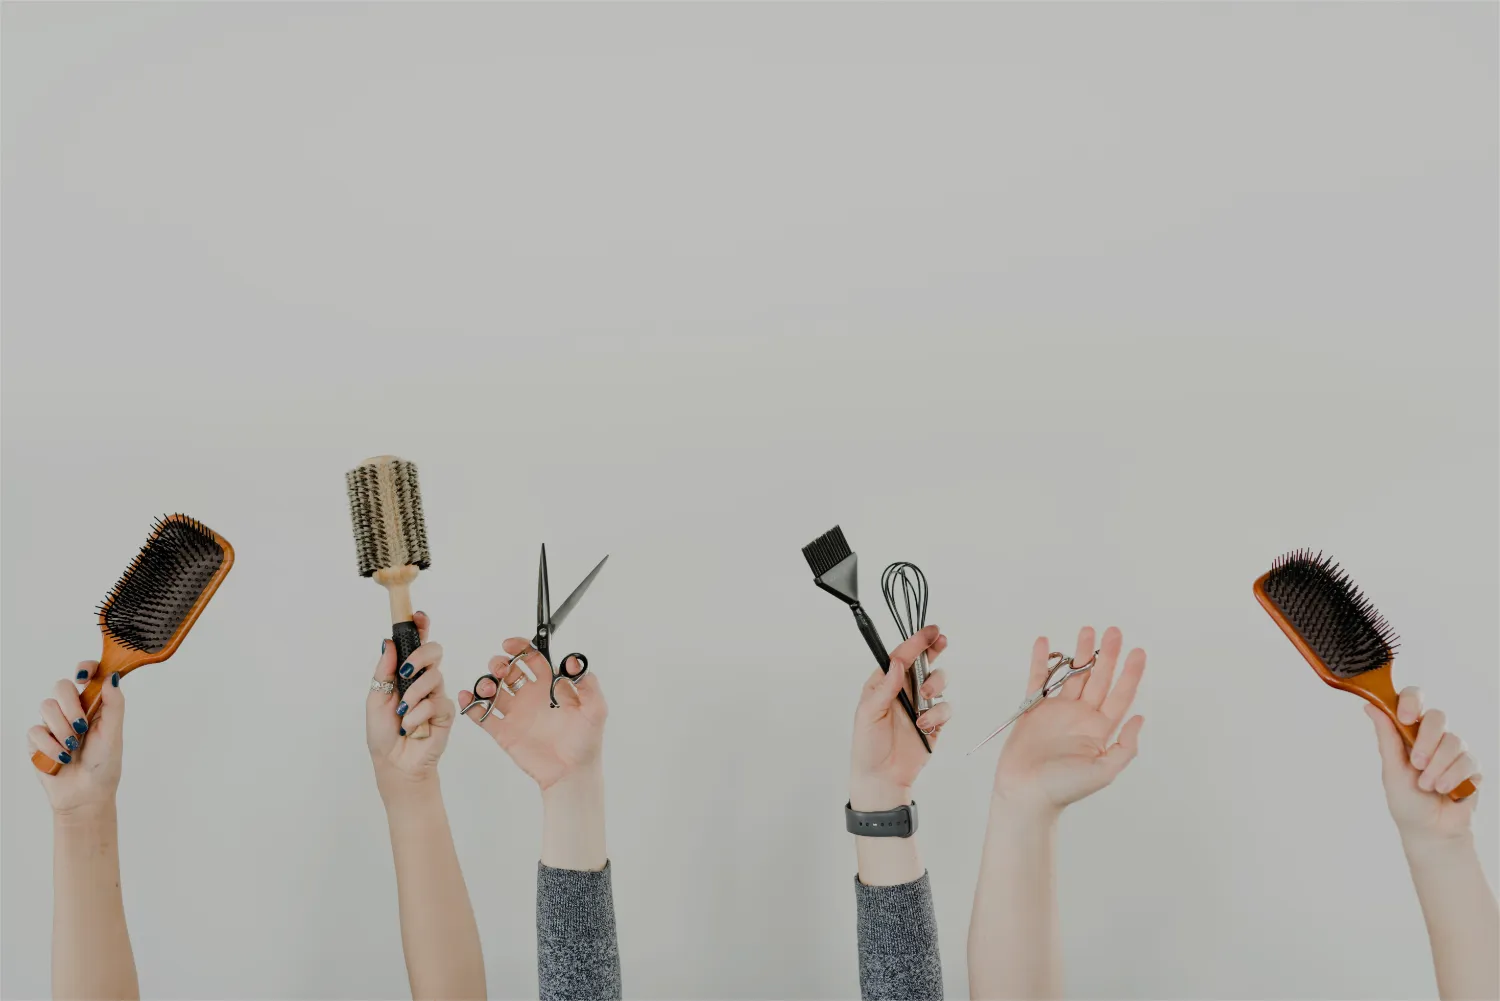
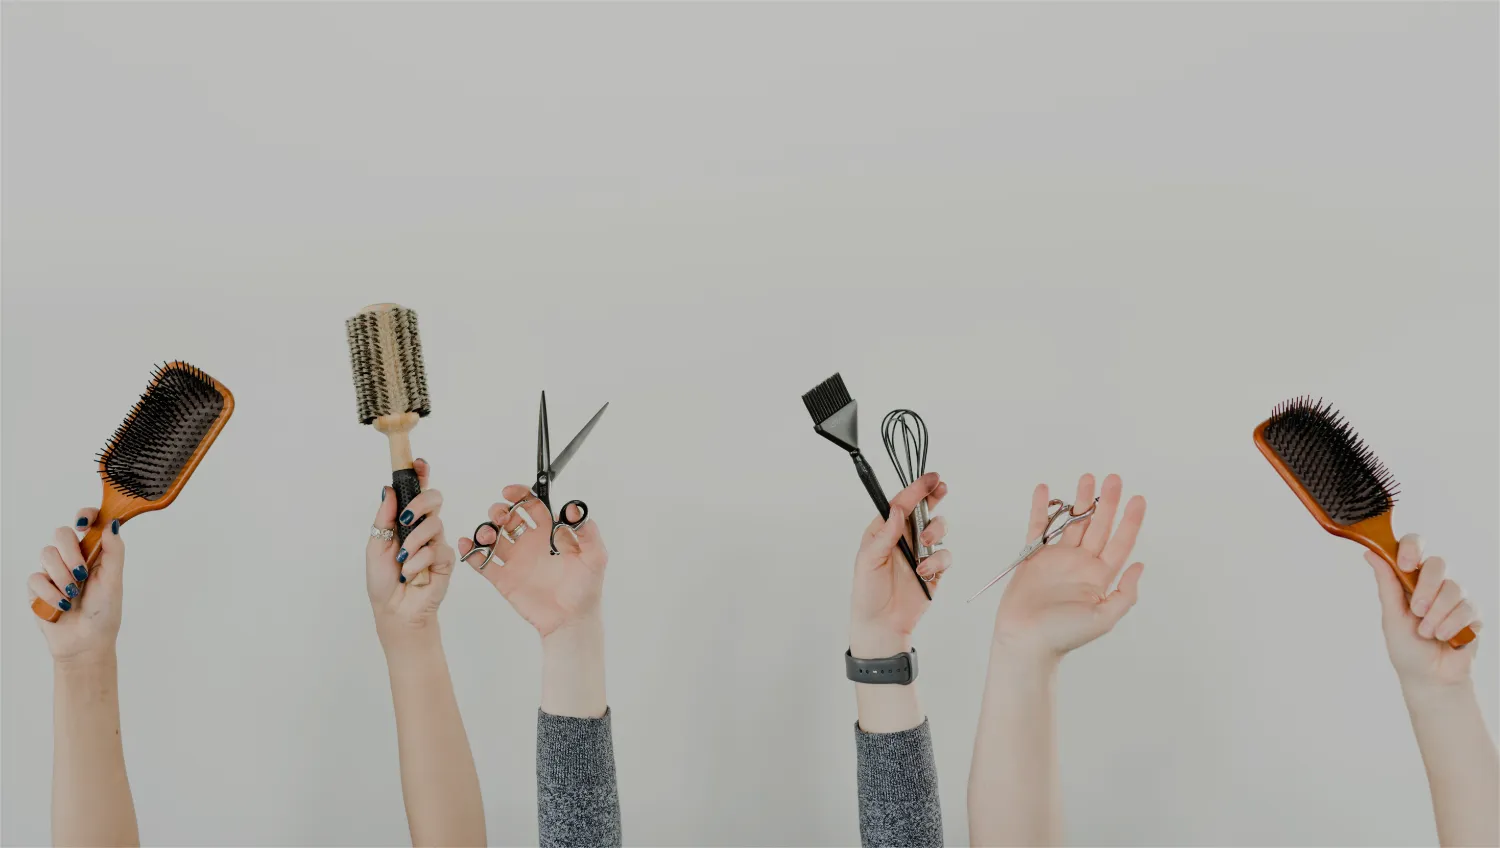
Created gallery page, updated gallery structure and styles from the home page. Optimized all gallery related images.

diff --git a/gallery.html b/gallery.html
@@ -8,11 +8,22 @@
         <title>Best Hairdresser and Hair Salon in Tucson | Mon Chéri</title>
         <link rel="stylesheet" href="styles/main.css">
 
+        <!--Google Fonts: Mukta-->
+        <link rel="preconnect" href="https://fonts.googleapis.com"><link rel="preconnect" href="https://fonts.gstatic.com" crossorigin>
+        <link href="https://fonts.googleapis.com/css2?family=Mukta:wght@300;400;500;600&display=swap" rel="stylesheet">
+
+        <!--Google Fonts: Merriweather-->
+        <link rel="preconnect" href="https://fonts.googleapis.com"><link rel="preconnect" href="https://fonts.gstatic.com" crossorigin>
+        <link href="https://fonts.googleapis.com/css2?family=Merriweather&display=swap" rel="stylesheet">
+
         <!--Load header from web component-->
         <script src="components/header/header.js"></script>
 
         <!--Load footer from web component-->
         <script src="components/footer/footer.js"></script>
+
+        <!--Load slideshow from web component-->
+        <script src="/components/photo-slider/photo-slider.js"></script>
 
         <!--  Favicon code  -->
         <link rel="apple-touch-icon" sizes="180x180" href="/assets/favicon/apple-touch-icon.png">
@@ -30,31 +41,96 @@
 
         <header-component></header-component>
 
-        <section>
-            <h4>The Results Speak for Themselves</h4>
-            <h1>Previous Work</h1>
-
-            <div class="gallery-container">
-                <img class="gallery-img-frame show-off-img-start" src="assets/photos/past-work/home-gallery-08.jpg" alt="">
-                <img class="gallery-img-frame" src="assets/photos/past-work/home-gallery-01.jpg" alt="">
-                <img class="gallery-img-frame" src="assets/photos/past-work/home-gallery-02.jpg" alt="">
-                <img class="gallery-img-frame" src="assets/photos/past-work/home-gallery-03.jpg" alt="">
-                <img class="gallery-img-frame" src="assets/photos/past-work/home-gallery-04.jpg" alt="">
-                <img class="gallery-img-frame" src="assets/photos/past-work/home-gallery-05.jpg" alt="">
-                <img class="gallery-img-frame" src="assets/photos/past-work/home-gallery-06.jpg" alt="">
-                <img class="gallery-img-frame" src="assets/photos/past-work/home-gallery-07.jpg" alt="">
-
-                <img class="gallery-img-frame" src="assets/photos/past-work/home-gallery-09.jpg" alt="">
-                <img class="gallery-img-frame show-off-img-end" src="assets/photos/past-work/home-gallery-10.jpg" alt="">
+        <section class="hero-section" id="hero-gallery">
+            <div class="hero-headers-container">
+                <h1>Your One-Stop Place For All Things Beauty</h1>
             </div>
-
-            <span class="btn-primary">
-                    <a href="services.html">See The Full Gallery</a>
-                </span>
         </section>
 
+        <section>
+
+            <div class="gallery-container gallery-left-large">
+                <img class="gallery-img-frame" src="assets/photos/past-work-optimized/service-image-00007.webp" alt="">
+                <img class="gallery-img-frame" src="assets/photos/past-work-optimized/service-image-00032.webp" alt="">
+                <img class="gallery-img-frame" src="assets/photos/past-work-optimized/service-image-00033.webp" alt="">
+                <img class="gallery-img-frame" src="assets/photos/past-work-optimized/service-image-00034.webp" alt="">
+                <img class="gallery-img-frame" src="assets/photos/past-work-optimized/service-image-00035.webp" alt="">
+                <img class="gallery-img-frame" src="assets/photos/past-work-optimized/service-image-00036.webp" alt="">
+                <img class="gallery-img-frame" src="assets/photos/past-work-optimized/service-image-00037.webp" alt="">
+                <img class="gallery-img-frame" src="assets/photos/past-work-optimized/service-image-00038.webp" alt="">
+                <img class="gallery-img-frame" src="assets/photos/past-work-optimized/service-image-00039.webp" alt="">
+                <img class="gallery-img-frame" src="assets/photos/past-work-optimized/service-image-00040.webp" alt="">
+                <img class="gallery-img-frame" src="assets/photos/past-work-optimized/service-image-00041.webp" alt="">
+                <img class="gallery-img-frame" src="assets/photos/past-work-optimized/service-image-00042.webp" alt="">
+                <img class="gallery-img-frame" src="assets/photos/past-work-optimized/service-image-00043.webp" alt="">
+            </div>
+
+
+        </section>
+
+        <section>
+
+            <div class="gallery-container gallery-right-large">
+                <img class="gallery-img-frame" src="assets/photos/past-work-optimized/service-image-00044.webp" alt="">
+                <img class="gallery-img-frame" src="assets/photos/past-work-optimized/service-image-00045.webp" alt="">
+                <img class="gallery-img-frame" src="assets/photos/past-work-optimized/service-image-00046.webp" alt="">
+                <img class="gallery-img-frame" src="assets/photos/past-work-optimized/service-image-00047.webp" alt="">
+                <img class="gallery-img-frame" src="assets/photos/past-work-optimized/service-image-00048.webp" alt="">
+                <img class="gallery-img-frame" src="assets/photos/past-work-optimized/service-image-00049.webp" alt="">
+                <img class="gallery-img-frame" src="assets/photos/past-work-optimized/service-image-00050.webp" alt="">
+                <img class="gallery-img-frame" src="assets/photos/past-work-optimized/service-image-00051.webp" alt="">
+                <img class="gallery-img-frame" src="assets/photos/past-work-optimized/service-image-00052.webp" alt="">
+                <img class="gallery-img-frame" src="assets/photos/past-work-optimized/service-image-00053.webp" alt="">
+                <img class="gallery-img-frame" src="assets/photos/past-work-optimized/service-image-00054.webp" alt="">
+                <img class="gallery-img-frame" src="assets/photos/past-work-optimized/service-image-00055.webp" alt="">
+                <img class="gallery-img-frame" src="assets/photos/past-work-optimized/service-image-00056.webp" alt="">
+            </div>
+        </section>
+
+        <section>
+
+            <div class="gallery-container gallery-left-large">
+                <img class="gallery-img-frame" src="assets/photos/past-work-optimized/service-image-00058.webp" alt="">
+                <img class="gallery-img-frame" src="assets/photos/past-work-optimized/service-image-00057.webp" alt="">
+                <img class="gallery-img-frame" src="assets/photos/past-work-optimized/service-image-00059.webp" alt="">
+                <img class="gallery-img-frame" src="assets/photos/past-work-optimized/service-image-00060.webp" alt="">
+                <img class="gallery-img-frame" src="assets/photos/past-work-optimized/service-image-00061.webp" alt="">
+                <img class="gallery-img-frame" src="assets/photos/past-work-optimized/service-image-00062.webp" alt="">
+                <img class="gallery-img-frame" src="assets/photos/past-work-optimized/service-image-00063.webp" alt="">
+
+            </div>
+        </section>
+
+        <section>
+            <h4>Get In Touch</h4>
+            <h1>Conveniently Located Inside El Rio Barber Stylist</h1>
+
+            <div class="contact-us-container">
+                <div class="map-embed">
+                    <div class="iframe-container">
+                        <iframe src="https://www.google.com/maps/embed?pb=!1m18!1m12!1m3!1d1542.0203396831364!2d-110.9925340596437!3d32.2353053084472!2m3!1f0!2f0!3f0!3m2!1i1024!2i768!4f13.1!3m3!1m2!1s0x86d671315145d619%3A0x7f3869fa6ad62b42!2s1299%20W%20Speedway%20Blvd%2C%20Tucson%2C%20AZ%2085745!5e0!3m2!1sen!2sus!4v1670911112876!5m2!1sen!2sus" width="600" height="450" style="border:0;" allowfullscreen="" loading="lazy" referrerpolicy="no-referrer-when-downgrade"></iframe>
+                    </div>
+                </div>
+
+                <div class="contact-us-btn-group">
+                <span class="btn-primary-icon">
+                    <img src="assets/icons/call_FILL0_wght400_GRAD0_opsz48.svg" alt="">
+                    <a href="tel:520-440-6118">Call Us (520) 440-6118</a>
+                </span>
+                    <span class="btn-primary-icon">
+                    <img src="assets/icons/directions_FILL0_wght400_GRAD0_opsz48.svg" alt="">
+                    <a href="https://goo.gl/maps/sCqsgdYvBWM6nLwW8" target="_blank">Get Directions</a>
+                </span>
+                    <span class="btn-primary-icon">
+                    <img src="assets/icons/book_online_FILL0_wght400_GRAD0_opsz48.svg" alt="">
+                    <a href="https://moncheribook.square.site/" target="_blank">Book Online</a>
+                </span>
+                </div>
+            </div>
+        </section>
 
         <footer-component></footer-component>
+        <script type="text/javascript" src="components/header/mobile-menu-helper.js"></script>
 
     </body>
 </html>

diff --git a/index.html b/index.html
@@ -105,19 +105,23 @@
             <h4>The Results Speak for Themselves</h4>
             <h1>Previous Work</h1>
 
-            <div class="gallery-container">
-                <img class="gallery-img-frame show-off-img-start" src="assets/photos/past-work/home-gallery-08.jpg" alt="">
-                <img class="gallery-img-frame" src="assets/photos/past-work/home-gallery-01.jpg" alt="">
-                <img class="gallery-img-frame" src="assets/photos/past-work/home-gallery-02.jpg" alt="">
-                <img class="gallery-img-frame" src="assets/photos/past-work/home-gallery-03.jpg" alt="">
-                <img class="gallery-img-frame" src="assets/photos/past-work/home-gallery-04.jpg" alt="">
-                <img class="gallery-img-frame" src="assets/photos/past-work/home-gallery-05.jpg" alt="">
-                <img class="gallery-img-frame" src="assets/photos/past-work/home-gallery-06.jpg" alt="">
-                <img class="gallery-img-frame" src="assets/photos/past-work/home-gallery-07.jpg" alt="">
-
-                <img class="gallery-img-frame" src="assets/photos/past-work/home-gallery-09.jpg" alt="">
-                <img class="gallery-img-frame show-off-img-end" src="assets/photos/past-work/home-gallery-10.jpg" alt="">
+            <div class="gallery-container gallery-left-large">
+                <img class="gallery-img-frame" src="assets/photos/past-work-optimized/service-image-00032.webp" alt="">
+                <img class="gallery-img-frame" src="assets/photos/past-work-optimized/service-image-00035.webp" alt="">
+                <img class="gallery-img-frame" src="assets/photos/past-work-optimized/service-image-00051.webp" alt="">
+                <img class="gallery-img-frame" src="assets/photos/past-work-optimized/service-image-00058.webp" alt="">
+                <img class="gallery-img-frame" src="assets/photos/past-work-optimized/service-image-00042.webp" alt="">
             </div>
+
+            <div class="gallery-container gallery-right-large">
+                <img class="gallery-img-frame" src="assets/photos/past-work-optimized/service-image-00053.webp" alt="">
+                <img class="gallery-img-frame" src="assets/photos/past-work-optimized/service-image-00036.webp" alt="">
+                <img class="gallery-img-frame" src="assets/photos/past-work-optimized/service-image-00063.webp" alt="">
+                <img class="gallery-img-frame" src="assets/photos/past-work-optimized/service-image-00037.webp" alt="">
+                <img class="gallery-img-frame" src="assets/photos/past-work-optimized/service-image-00049.webp" alt="">
+            </div>
+
+
 
             <span class="btn-primary">
                     <a href="services.html">See The Full Gallery</a>

diff --git a/styles/main.css b/styles/main.css
@@ -172,6 +172,12 @@
             background-position: center;
         }
 
+        #hero-gallery{
+            background: var(--primary-brand-color-dark) url(/assets/photos/hero-images-optimized/gallery.webp);
+            background-size: cover;
+            background-position: center;
+        }
+
         /*Medium sized screen hero styles*/
         @media screen and (max-width: 767px){
             .hero-section {
@@ -395,7 +401,7 @@
 /*             Gallery Page               */
 /******************************************/
 
-    /*Apply a grame to an image*/
+    /*Apply a frame to an image*/
     .gallery-img-frame {
         box-sizing: border-box;
         margin: 20px;
@@ -428,31 +434,43 @@
     }
 
 
-    .gallery-container img:first-of-type {
-        grid-column: 1 / span 2;
-        grid-row: 1 / span 2;
+    /*The first image in HTML will be 2x2 and take up the left
+    top portion of the grid*/
+    .gallery-left-large img:first-child {
+        grid-column: span 2;
+        grid-row: span 2;
         width: 100%;
         height: 420px;
 
     }
 
-    .gallery-container img:nth-child(10) {
-        grid-column: 3 / span 2;
-        grid-row: 3 / span 2;
+    /*The third image in HTML will be 2x2 and take up the right
+    top portion of the grid*/
+    .gallery-right-large img:nth-of-type(3) {
+        grid-column: span 2;
+        grid-row: span 2;
         width: 100%;
         height: 420px;
+
     }
+
+    /*.gallery-container img:nth-of-type(10n) {*/
+    /*    grid-column: 3 / span 2;*/
+    /*    grid-row: 3 / span 2;*/
+    /*    width: 100%;*/
+    /*    height: 420px;*/
+    /*}*/
 
     @media (max-width: 900px) {
         .gallery-container img {
             height: 125px;
         }
 
-        .gallery-container img:first-of-type {
+        .gallery-left-large img:first-child{
             height: 280px;
         }
 
-        .gallery-container img:nth-child(10) {
+        .gallery-right-large img:nth-of-type(3){
             height: 280px;
         }
     }
@@ -466,13 +484,13 @@
             height: 150px;
         }
 
-        .gallery-container img:first-of-type {
+        .gallery-left-large img:first-child{
             height: 300px;
         }
 
-        .gallery-container img:nth-child(10) {
+        .gallery-right-large img:nth-of-type(3){
             grid-column: 1 / 3;
-            grid-row: 5 / span 2;
+            grid-row: 1 / span 2;
             height: 300px;
         }
     }
